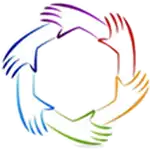
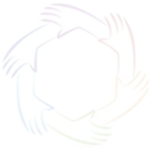
changing this to a blank

Changed region(s): [[0.0, 0.0, 1.0, 0.9867]]

diff --git a/src/components/Accordion01Images.jsx b/src/components/Accordion01Images.jsx
@@ -1,12 +1,11 @@
 // eslint-disable-next-line no-unused-vars
 import React, { useState } from 'react';
-import MoverPerson from "../assets/Img/MoverPersonSmallScreen.webp"
-import TwoGuysSmallScreen from "../assets/Img/TwoGuysSmallScreen.webp"
- 
-import PianoSmallScreen from "../assets/Img/PianoSmallScreen.webp"
-import WarehouseWorkerSmallScreen from "../assets/Img/WarehouseWorkerSmallScreen.webp"
-import StorageSmallScreen from "../assets/Img/StorageSmallScreen.webp"
 
+import Movers1 from "../assets/Img/Movers1.webp"
+import Movers2 from "../assets/Img/Movers2.webp"
+import Movers3 from "../assets/Img/Movers3.webp"
+import Movers4 from "../assets/Img/Movers4.webp"
+import Movers5 from "../assets/Img/Movers5.webp"
 
 
 
@@ -45,7 +44,7 @@ const Accordion01 = () => {
             <>
             <div   className=' flex justify-center content-center  '>
             <div className='MoversSmallScreen  md:hidden relative flex w-fit mt-[.25rem] block'>
-              <img src={TwoGuysSmallScreen} alt="Two Guys" width={480} height={480} className=' rounded-[18px] z-1'
+              <img src={Movers1} alt="Movers1" width={480} height={480} className=' rounded-[18px] z-1'
                     loading="lazy" />
             </div>
           </div>
@@ -53,27 +52,27 @@ const Accordion01 = () => {
             <div className='flex justify-center content-center'>
               <div className='MoversSmallScreen md:hidden relative flex w-fit mt-[1.5rem]
                  block'>
-                <img src={MoverPerson} alt="Mover Person" width={480} height={480}  className=' rounded-[18px] z-1' 
+                <img src={Movers2} alt="Movers2" width={480} height={480}  className=' rounded-[18px] z-1' 
                     loading="lazy"/>
               </div>
             </div>
 
             <div className='flex justify-center content-center'>
               <div className='MoversSmallScreen md:hidden relative flex w-fit mt-[1.5rem] block'>
-                <img src={PianoSmallScreen} alt="Piano Small Screen" width={480} height={480}   className=' rounded-[18px] z-1'loading="lazy" />
+                <img src={Movers3} alt="Movers3" width={480} height={480}   className=' rounded-[18px] z-1'loading="lazy" />
               </div>
             </div>
             
             <div className='flex justify-center content-center'>
               <div className='MoversSmallScreen md:hidden relative flex w-fit mt-[1.5rem] block'>
-                <img src={WarehouseWorkerSmallScreen} alt="Warehouse Worker SmallScreen"
+                <img src={Movers4} alt="Movers4"
                 width={480} height={480}   className=' rounded-[18px]  z-1'loading="lazy" />
               </div>
             </div>
             
             <div className='flex justify-center content-center'>
               <div className='MoversSmallScreen md:hidden relative flex w-fit mt-[1.5rem]  block'>
-                <img src={StorageSmallScreen} alt="Storage Small Screen" width={480} height={480} 
+                <img src={Movers5} alt="Movers5" width={480} height={480} 
                  className=' rounded-[18px] z-1'loading="lazy" />
               </div>
             </div>

diff --git a/src/components/Instagram.jsx b/src/components/Instagram.jsx
@@ -10,7 +10,7 @@ const Instagram = () => {
       <>
   
       <div className='OurReelsBoxTruckWrapper relative justify-evenly  flex block  mx-auto mt-[6.75rem] md:mt-[9rem]'>
-      <a href="https://www.instagram.com/helpinghandservices626">
+      <a href="https://empty">
          <div className='OurReelsBoxTruck w-[60px] xxs:w-[70]px xs:w-[80px]  relative  content-center border-2 border-[#614829] flex w-fit rounded-[14px]  '>
              <img src={InstagramReels2} alt="Instagram Movers" 
              className='rounded-xl' />
@@ -27,7 +27,7 @@ const Instagram = () => {
  <p className='text-white font-serif text-3xl mt-2  '><u>626-371-4331</u></p>
  </div>
 
-      <a href="https://www.facebook.com/Helpinghandservices626">
+      <a href="https://empty">
          <div className='OurReelsBoxMover w-[60px] xxs:w-[70]px xs:w-[80px]  relative  border-2 border-[#614829] flex w-fit rounded-[14px]   '>
              <img src={FacebookMover} alt="Facebook Mover" 
              className='rounded-xl' />
